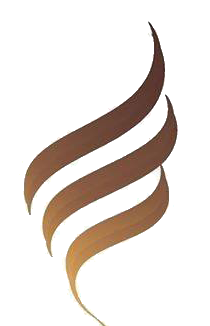
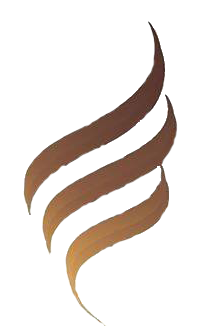
logooo

diff --git a/pages/bienvenue.html b/pages/bienvenue.html
@@ -19,7 +19,7 @@
           <div class="container">
               <div class="col-12">
                 <header id="header">
-                                    <img src="../images/BdeB.png" / id="logoimg" width="90px" height="70">
+                                    <img src="../images/BdeB.png" / id="logoimg" width="60px" height="70">
                                     
                                         <!-- Recherche -->
                                            <form action="http://www.google.ca/" target="_blank">

diff --git a/pages/login.html b/pages/login.html
@@ -19,7 +19,7 @@
           <div class="container">
               <div class="col-12">
                 <header id="header">
-                                    <img src="../images/BdeB.png" / id="logoimg" width="90px" height="70">
+                                    <img src="../images/BdeB.png" / id="logoimg" width="60px" height="70">
                                     
                                         <!-- Recherche -->
                                            <form action="http://www.google.ca/" target="_blank">

diff --git a/pages/blog.html b/pages/blog.html
@@ -18,7 +18,7 @@
 					<div class="container">
 							<div class="col-12">
 								<header id="header">
-                                    <img src="../images/BdeB.png" / id="logoimg" width="90px" height="70">
+                                    <img src="../images/BdeB.png" / id="logoimg" width="60px" height="70">
                                     
                                         <!-- Recherche -->
                                            <form action="http://www.google.ca/" target="_blank">

diff --git a/pages/contact.html b/pages/contact.html
@@ -20,7 +20,7 @@
 					<div class="container">
 							<div class="col-12">
 								<header id="header">
-                                    <img src="../images/BdeB.png" / id="logoimg" width="90px" height="70">
+                                    <img src="../images/BdeB.png" / id="logoimg" width="60px" height="70">
                                     
                                         <!-- Recherche -->
                                            <form action="http://www.google.ca/" target="_blank">

diff --git a/index.html b/index.html
@@ -34,7 +34,7 @@
 					<div class="container">
 							<div class="col-12">
 								<header id="header">
-                                    <img src="images/BdeB.png" / id="logoimg" width="90px" height="70">
+                                    <img src="images/BdeB.png" / id="logoimg" width="60px" height="70">
                                     
                                         <!-- Recherche -->
                                            <form action="http://www.google.ca/" target="_blank">
